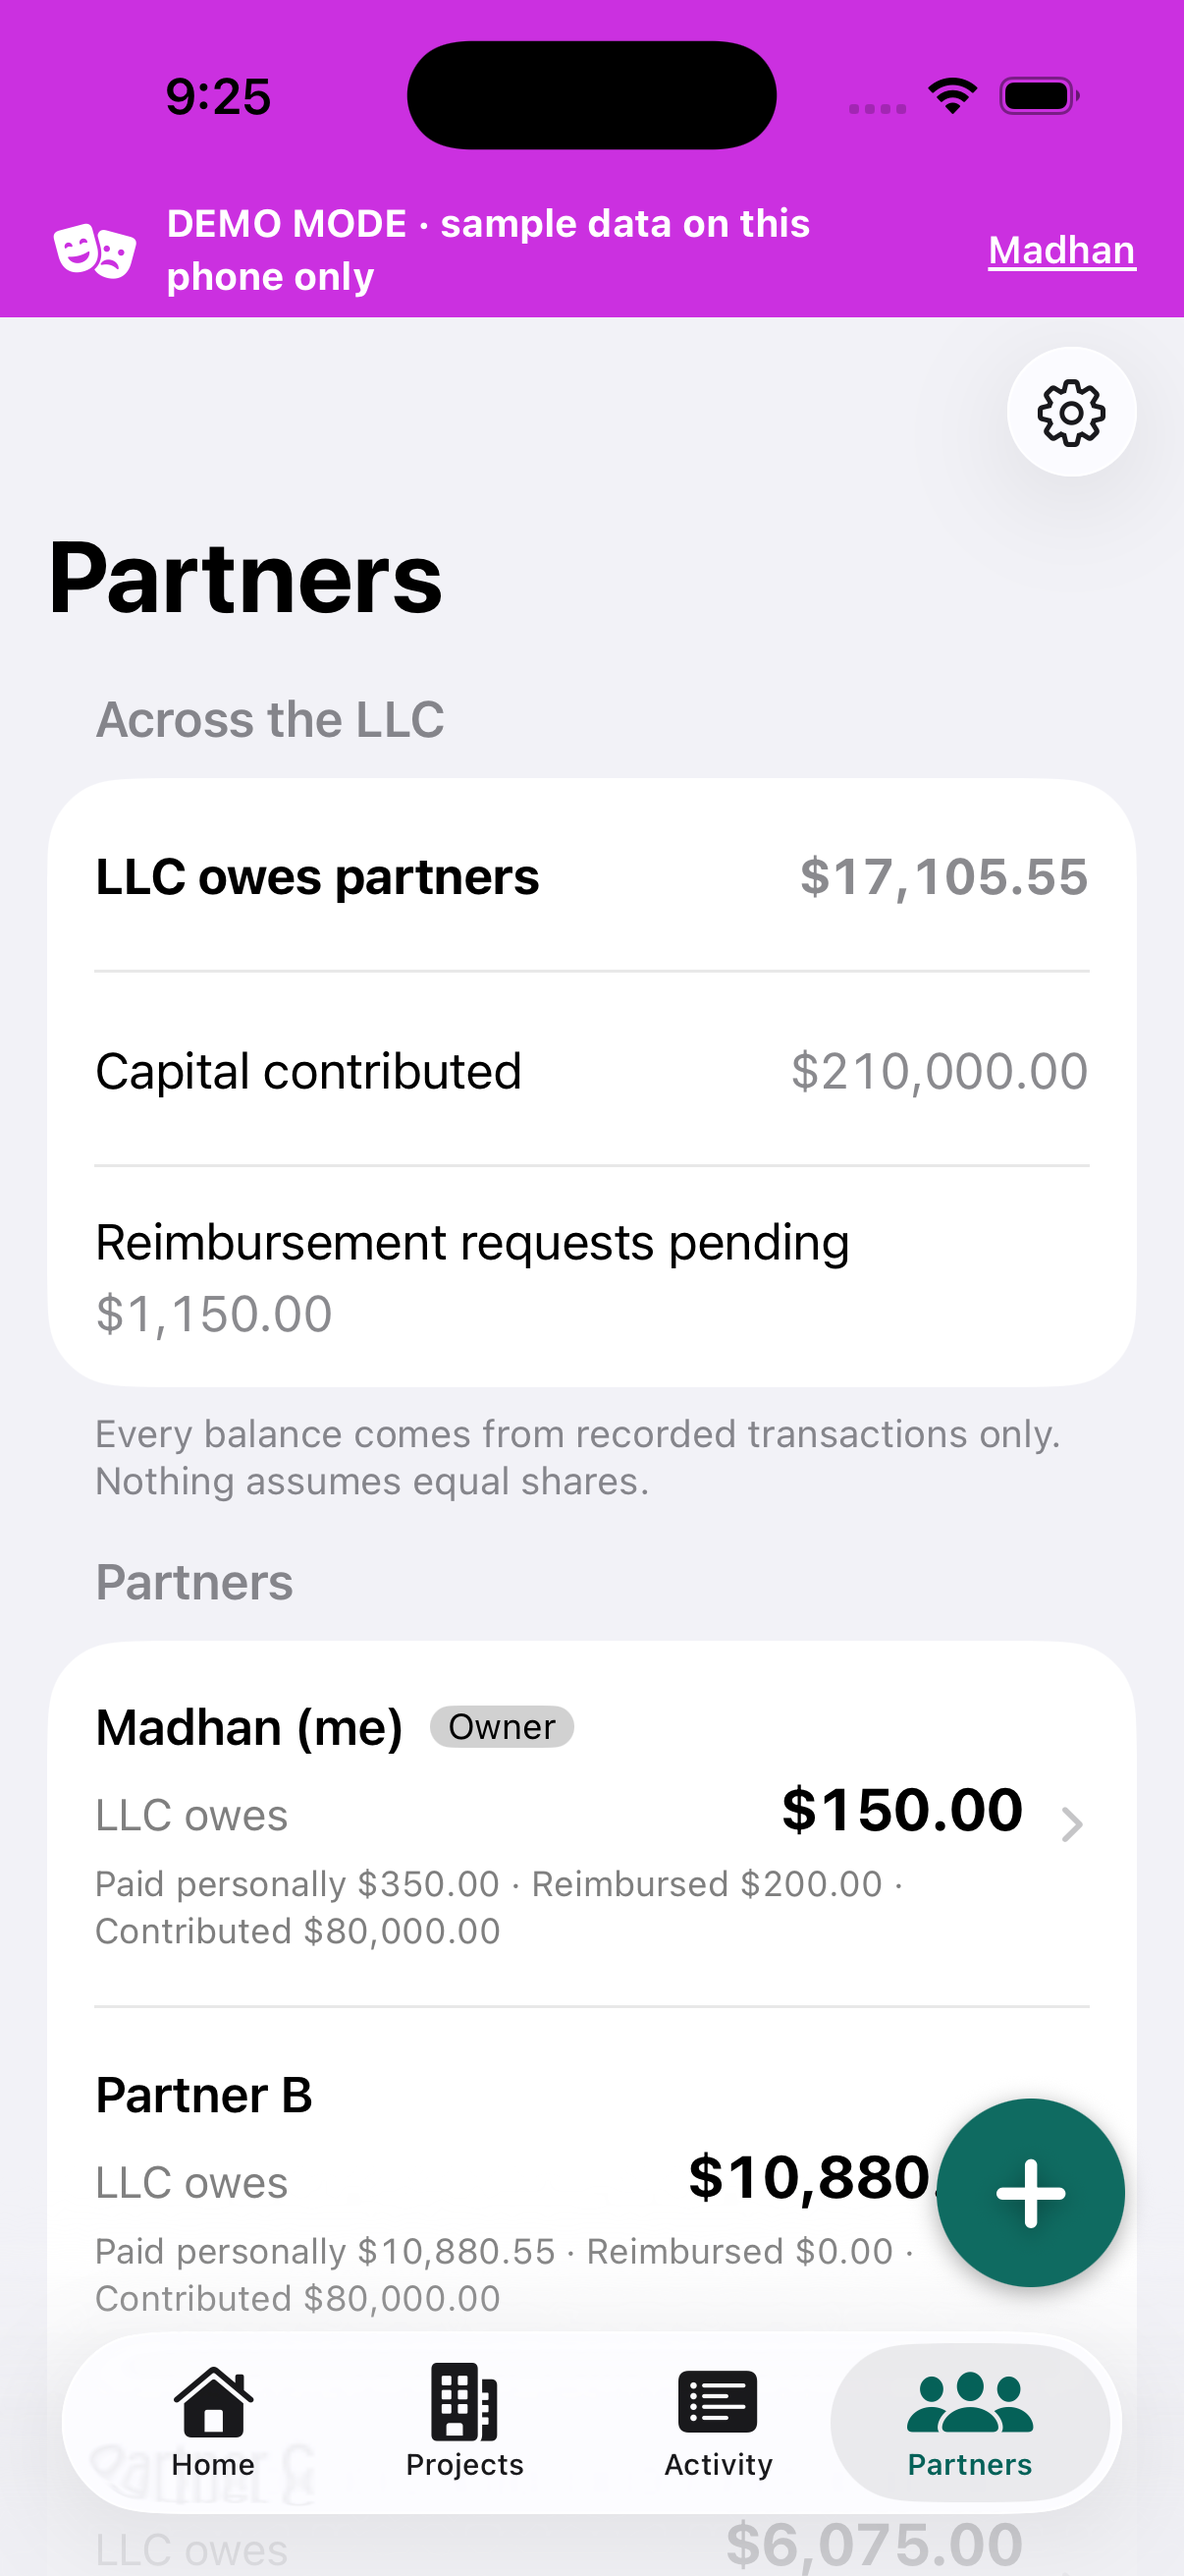
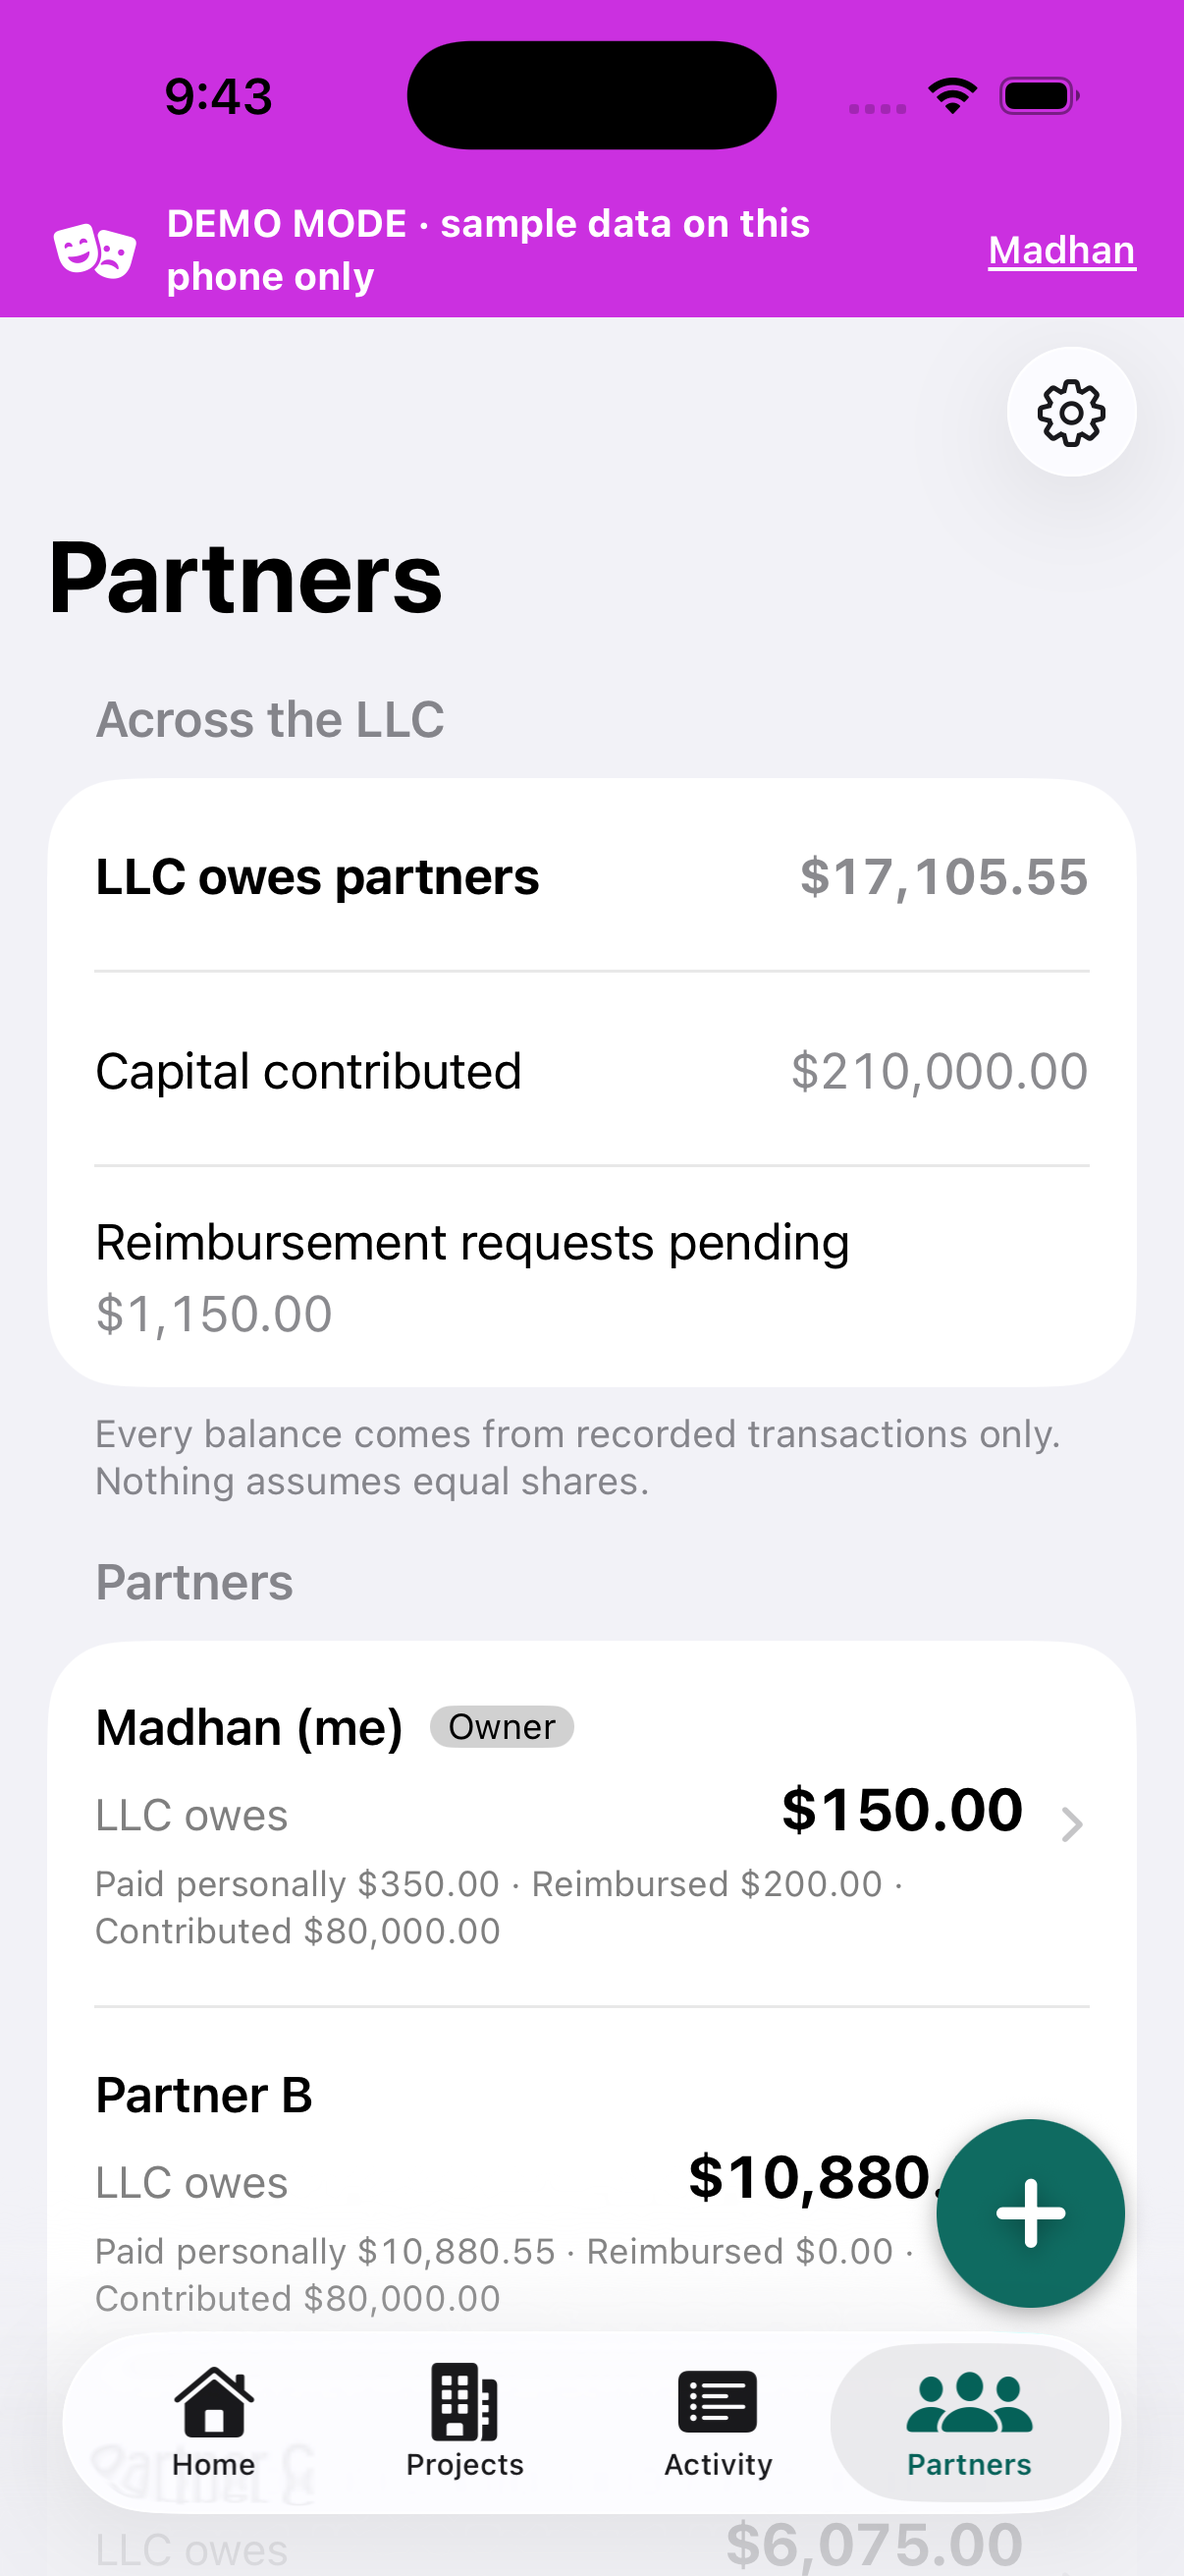
Lists end above the Add button; keep form buttons on one line; refresh screenshots
- The Add button's safe-area inset sits outside each NavigationStack, so Lists
  never saw it and their last rows ended under the button. Also pad scroll
  content by the button's height (80pt), which reaches pushed screens too.
- Form bottom bar: one-line labels with slight scaling, so "Post receipt" no
  longer wraps onto two lines.
- docs/screenshots: retake 01-05 from the demo on an iPhone 17 Pro simulator
  and add 06-add-menu (menu open after one tap on +).

Claude-Session: https://claude.ai/code/session_0134zoQWLDEVESVnp795YqVa

Changed region(s): [[0.7977, 0.8032, 0.9511, 0.9268], [0.1534, 0.0309, 0.2148, 0.0618]]

diff --git a/ios/ProjectLedger/App/ProjectLedgerApp.swift b/ios/ProjectLedger/App/ProjectLedgerApp.swift
@@ -97,7 +97,11 @@ struct MainTabs: View {
 struct AddButtonInset: ViewModifier {
     @Environment(AppModel.self) private var app
     func body(content: Content) -> some View {
-        content.safeAreaInset(edge: .bottom, spacing: 0) {
+        // The inset alone doesn't reach Lists inside the NavigationStack, so also pad
+        // their scroll content by the button's height (64pt + 2×8pt padding).
+        content
+            .contentMargins(.bottom, 80, for: .scrollContent)
+            .safeAreaInset(edge: .bottom, spacing: 0) {
             HStack {
                 Spacer()
                 AddButton(action: Binding(get: { nil }, set: { a in if let a { app.sheet = FormRoute(a) } }))

diff --git a/ios/ProjectLedger/Forms/TransactionForm.swift b/ios/ProjectLedger/Forms/TransactionForm.swift
@@ -277,6 +277,8 @@ struct TransactionForm: View {
             .disabled(busy)
         }
         .font(.headline)
+        .lineLimit(1)
+        .minimumScaleFactor(0.75)   // keep "Save draft" / "Post receipt" on one line
         .padding(.horizontal).padding(.vertical, 8)
         .background(.bar)
     }
